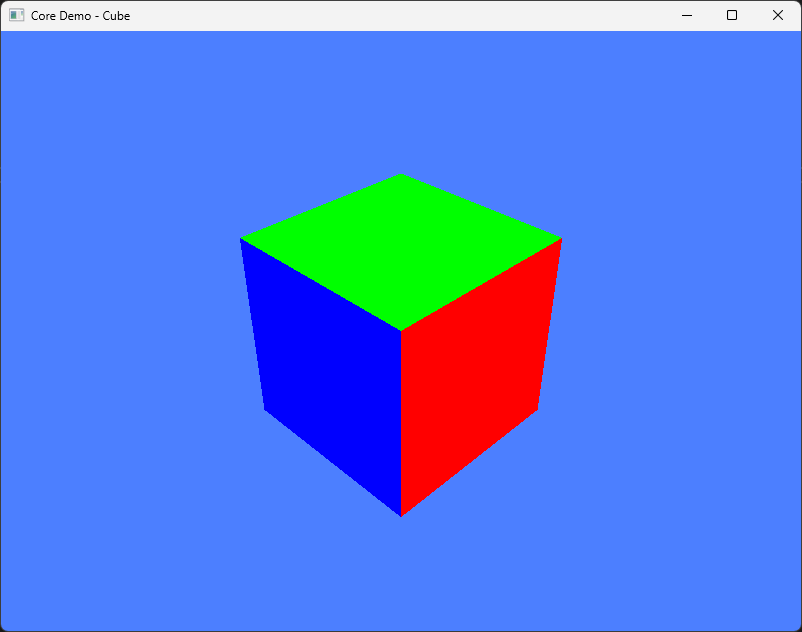
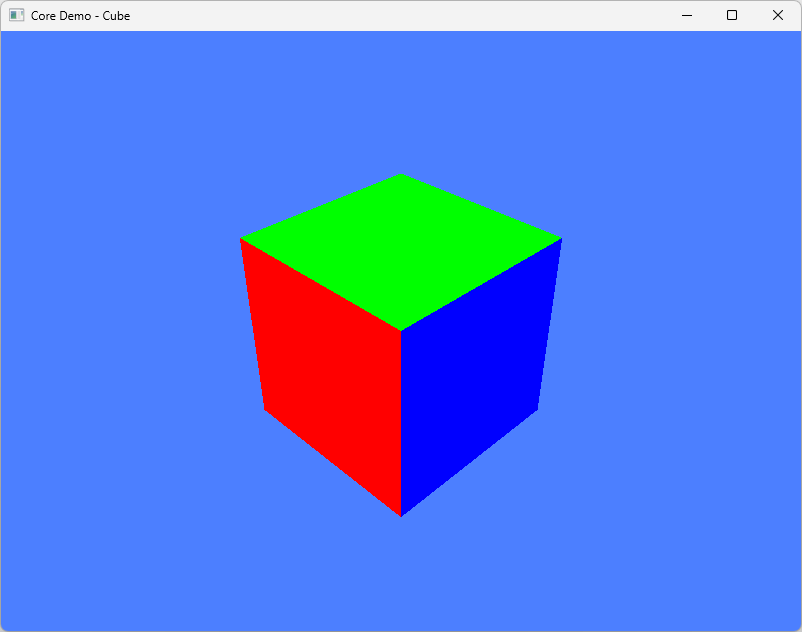
Fixed Core and Engine demos

Changed region(s): [[0.2805, 0.3608, 0.717, 0.8117], [0.0, 0.0, 1.0, 1.0], [0.0, 0.0, 0.0312, 0.0301]]

diff --git a/CoreDemos/CoreDemo_SimpleCube/CoreDemo_SimpleCube.cpp b/CoreDemos/CoreDemo_SimpleCube/CoreDemo_SimpleCube.cpp
@@ -58,10 +58,10 @@ WVPMatrix CreateTransformationMatrix(
 	auto vecCameraPosition = DirectX::XMLoadFloat3(&cameraPosition);
 	auto vecCameraTarget = DirectX::XMLoadFloat3(&cameraTarget);
 	auto vecCameraUp = DirectX::XMLoadFloat3(&cameraUpDirection);
-	auto matView = DirectX::XMMatrixLookAtRH(vecCameraPosition, vecCameraTarget, vecCameraUp);
+	auto matView = DirectX::XMMatrixLookAtLH(vecCameraPosition, vecCameraTarget, vecCameraUp);
 
 	// 3. Projection Matrix (Orthographic)
-	Matrix matProjection = XMMatrixPerspectiveFovRH(
+	Matrix matProjection = XMMatrixPerspectiveFovLH(
 		XMConvertToRadians(fov),
 		static_cast<float>(windowSize.width) / static_cast<float>(windowSize.height),
 		nearPlane,
@@ -127,10 +127,10 @@ int WinMain(HINSTANCE hInstance, HINSTANCE, LPSTR, int nCmdShow) {
 
 	core.SetPrimitiveTopology(URM::Core::PrimitiveTopologies::TRIANGLE_LIST);
 
-	auto vertexShader = URM::Core::VertexShader(core, L"SimpleVertexShader.cso");
+	auto vertexShader = URM::Core::VertexShader(core, L"VerySimpleVertexShader.cso");
 	vertexShader.Bind(core);
 
-	auto pixelShader = URM::Core::PixelShader(core, L"SimplePixelShader.cso");
+	auto pixelShader = URM::Core::PixelShader(core, L"VerySimplePixelShader.cso");
 	pixelShader.Bind(core);
 
     auto inputLayout = URM::Core::ModelLoaderLayout(core, vertexShader);

diff --git a/CoreDemos/EngineDemo_SimpleCube/EngineDemo_SimpleCube.cpp b/CoreDemos/EngineDemo_SimpleCube/EngineDemo_SimpleCube.cpp
@@ -1,5 +1,5 @@
 #include <URM/Engine/Engine.h>
-#include <URM/Engine/FlyCameraObject.h>
+#include <URM/Engine/CameraObject.h>
 #include <URM/Engine/ModelObject.h>
 
 using namespace DirectX;
@@ -16,7 +16,7 @@ int WinMain(HINSTANCE hInstance, HINSTANCE, LPSTR, int nCmdShow) {
     );
 	engine.renderParameters.clearColor = DirectX::SimpleMath::Color(0.3f, 0.5f, 1.0f);
 
-    auto camera = std::make_shared<URM::Engine::CameraObject>();
+    auto camera = std::make_shared<URM::Engine::CameraObject>(45.0f);
 	camera->GetTransform().SetPosition({ 4.0f, 4.0f, 4.0f });
 	camera->GetTransform().LookAt({ 0.0f, 0.0f, 0.0f });
 	engine.GetScene().SetMainCamera(camera);
@@ -25,10 +25,7 @@ int WinMain(HINSTANCE hInstance, HINSTANCE, LPSTR, int nCmdShow) {
     auto newLight = engine.GetScene().GetRoot().lock()->AddChild(new URM::Engine::LightObject());
 
 	auto normalColorMaterial = std::shared_ptr<NormalColorMaterial>(new NormalColorMaterial());
-    auto cube = std::make_shared<URM::Engine::ModelObject>("cube.glb", normalColorMaterial);
-	cube->GetTransform().SetLocalPosition({ 0.0f, 0.0f, 0.0f });
-    engine.GetScene().GetRoot().lock()->AddChild(cube);
-
+    engine.GetScene().GetRoot().lock()->AddChild(new URM::Engine::ModelObject("cube.glb", normalColorMaterial));
 
     engine.RunLoop();
 }

diff --git a/lib/URM/Engine/Transform.cpp b/lib/URM/Engine/Transform.cpp
@@ -159,6 +159,7 @@ namespace URM::Engine {
 
 		UpdateMatrix();
 	}
+
 	void Transform::SetRotation(Vector3 eulerAngles) {
 		this->SetRotation(EulerToQuatAngles(eulerAngles));
 	}
